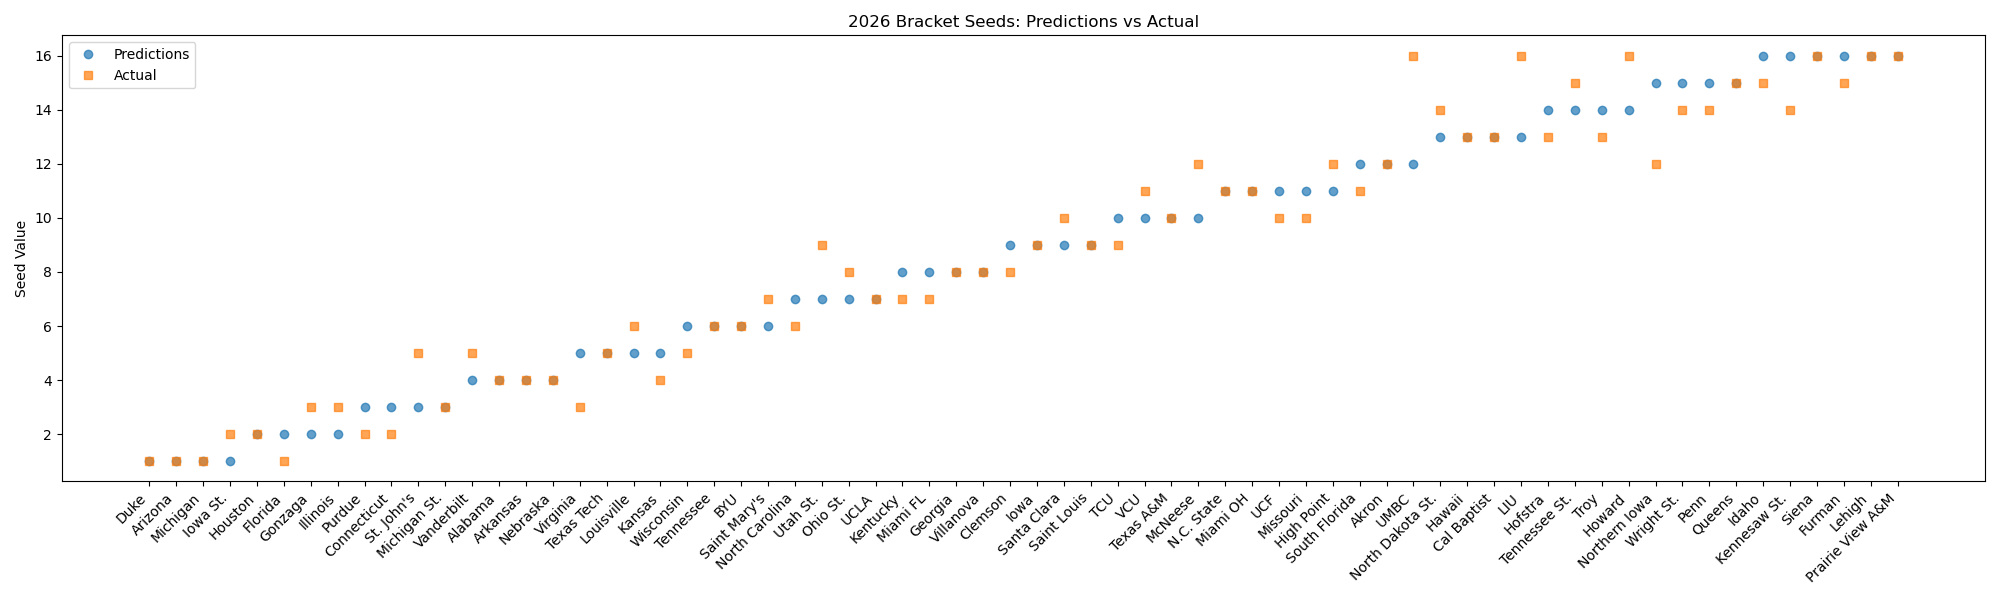
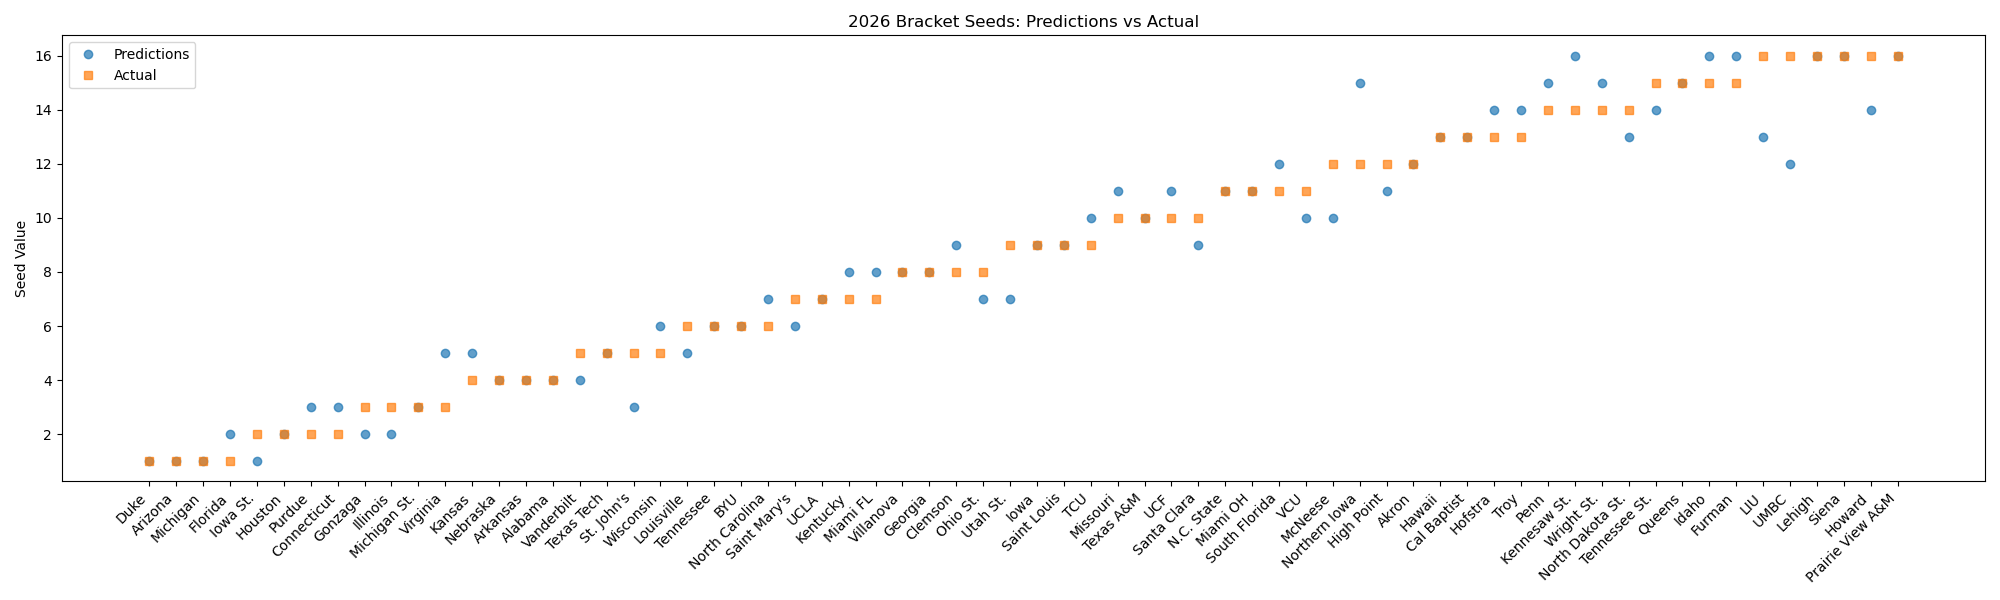
update

diff --git a/src/cbb/analysis/compare_bracket.py b/src/cbb/analysis/compare_bracket.py
@@ -52,11 +52,13 @@ df['diff'] = pd.to_numeric(df["actual"]) - pd.to_numeric(df["preds"])
 missed = df[condition]
 df = df[~condition]
 
+
 df['err_size'] = df['diff'].abs() 
 plt.figure(figsize=(20, 6))
 df = df.reset_index()
 df["preds"] = pd.to_numeric(df["preds"])
 df["actual"] = pd.to_numeric(df["actual"])
+df = df.sort_values(by="actual", ascending=True)
 # Create a numeric range for the X-axis positions
 x_pos = range(len(df))
 
